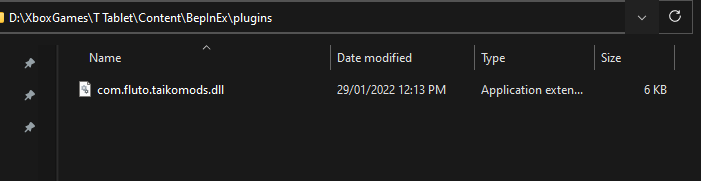
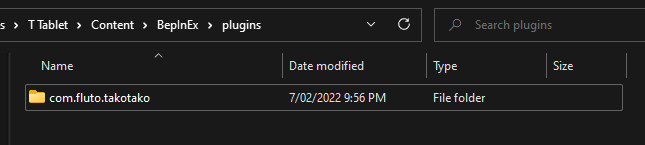
Updated readme

diff --git a/TakoTako/Plugin.cs b/TakoTako/Plugin.cs
@@ -61,7 +61,7 @@ namespace TakoTako
 
             ConfigSaveDirectory = Config.Bind("CustomSongs",
                 "SaveDirectory",
-                $"{userFolder}/Documents/TaikoTheDrumMasterMods/saves",
+                $"{userFolder}/Documents/{typeof(Plugin).Namespace}/saves",
                 "The directory where saves are stored");
 
             ConfigDisableCustomDLCSongs = Config.Bind("CustomSongs",

diff --git a/README.md b/README.md
@@ -1,6 +1,6 @@
 # TakoTako
 
-Hey this is a mod for Taiko no Tatsujin: The Drum Master
+This is a mod for Taiko no Tatsujin: The Drum Master\
 Currently has the features:
 - Fixes sign in screen for version 1.1.0.0
 - Skips splash screen
@@ -11,7 +11,7 @@ Currently has the features:
 ----
 ## Installation
 
-To install mods is a bit tricky this time around as we have to take a few more steps to be able to inject files into the game. !(Swigs did a quick video on it here)[https://youtu.be/WDsWDVbtbbI] but if you want to follow along in text read on ahead.
+To install mods is a bit tricky this time around as we have to take a few more steps to be able to inject files into the game. ![Swigs did a quick video on it here](https://youtu.be/WDsWDVbtbbI) but if you want to follow along in text read on ahead.
 
 1. Become an Xbox Insider, to do this open the `Xbox Insider Hub` which you can get from the Microsoft Store if you don't already have it installed. Go to Previews > Windows Gaming, and join it. There should be an update ready for you for the Xbox app, so go ahead and update and relaunch it
 2. In the Xbox App go to Settings > General and enable `Use advanced installation and management features`. Feel free to change your installation directory
@@ -26,7 +26,7 @@ To install mods is a bit tricky this time around as we have to take a few more s
 8. Run Taiko no Tatusjin The Drum Master once, then close it. This will generate some files
 9. Look in your game's folder again, new files will have been generated under `.\BepInEx\plugins`
 10. ![Download my patch](https://github.com/Fluto/TaikoMods/releases)
-11. Paste the .DLL from step 4 into this folder\
+11. Extract the `com.fluto.takotako` folder from the download in step 10 and paste it into the `.\BepInEx\plugins` folder\
 ![](https://github.com/Fluto/TakoTako/blob/main/readme-image-2.png)
 12. And you're done!
 
@@ -113,6 +113,8 @@ data.json Format
   int scoreMania;
   int scoreUra;
 
+  bool areFilesGZipped; (are the music and fumen files gzipped? this saves file space and is done automatically when converting TJAs)
+
   // Song Info
   int previewPos;
   int fumenOffsetPos;
@@ -155,8 +157,12 @@ TextEntry {
 ## Supported Versions
 <details>
 <summary>Supported Versions</summary>
+<p>
 - 1.1.0.0
+</p>
+<p>
 - 1.2.2.0
+</p>
 </details>
 
 ---
@@ -165,6 +171,6 @@ TextEntry {
 
 ---
 ## Credits 
-- !(SuperSonicAudio)[https://github.com/blueskythlikesclouds/SonicAudioTools]
-- !(VGAudio)[https://github.com/Thealexbarney/VGAudio]
+- ![SuperSonicAudio](https://github.com/blueskythlikesclouds/SonicAudioTools)
+- ![VGAudio](https://github.com/Thealexbarney/VGAudio)
 - Pulsar#5356 for the TJA2BIN.exe
